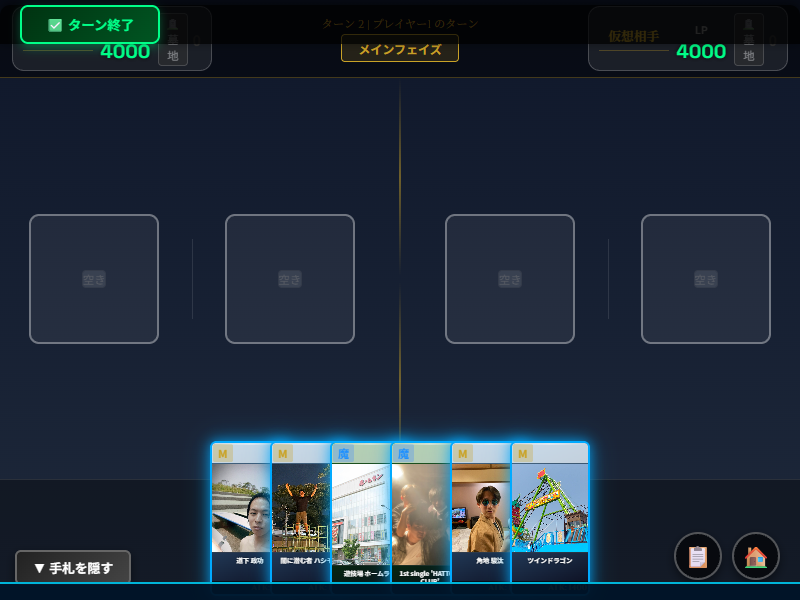
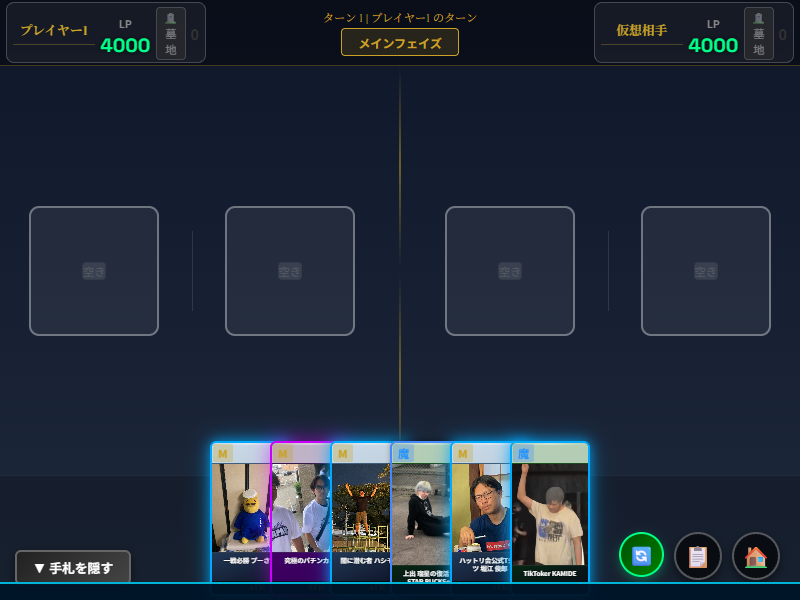
b1

diff --git a/game.js b/game.js
@@ -1043,36 +1043,7 @@ function renderHand(player) {
     toggleBtn.onclick = toggleHand;
     headerEl.appendChild(toggleBtn);
 
-    const endTurnBtn = document.createElement('button');
-    endTurnBtn.className = 'btn-end-turn-header';
-    endTurnBtn.style.padding = '8px 24px';
-    endTurnBtn.style.borderRadius = '8px';
-    endTurnBtn.style.background = 'linear-gradient(135deg, #003311, #005522)';
-    endTurnBtn.style.color = '#00ff88';
-    endTurnBtn.style.border = '2px solid #00ff88';
-    endTurnBtn.style.cursor = 'pointer';
-    endTurnBtn.style.fontWeight = 'bold';
-    endTurnBtn.style.pointerEvents = 'auto';
-    endTurnBtn.style.boxShadow = '0 4px 10px rgba(0,255,136,0.3)';
-    endTurnBtn.textContent = '✅ ターン終了';
-    endTurnBtn.onclick = () => {
-        if (gs && (gs.phase === PHASE.MAIN || gs.phase === PHASE.BATTLE)) {
-            endTurn();
-        }
-    };
-
-    // 自分のターンのメイン/バトルフェイズのみ表示
-    if (gs && gs._isOnlineHost ? (gs.currentPlayer === gs.player1) : true) {
-        if (gs && (gs.phase === PHASE.MAIN || gs.phase === PHASE.BATTLE)) {
-            endTurnBtn.style.display = 'block';
-        } else {
-            endTurnBtn.style.display = 'none';
-        }
-    } else {
-        endTurnBtn.style.display = 'none';
-    }
-
-    headerEl.appendChild(endTurnBtn);
+    // ターン終了ボタンは画面右下のメニューに移管されたため、手札上部での生成・描画は削除しました
 
     // headerElを先に挿入し、その後にcardsElを挿入（flex-direction: columnにより縦に並ぶ）
     el.appendChild(headerEl);

diff --git a/style.css b/style.css
@@ -2361,12 +2361,15 @@ body::before {
   flex-direction: row;
   align-items: center;
   justify-content: space-between;
-  padding: 6px 12px;
-  background: rgba(0, 0, 0, 0.5);
+  padding: 2px 6px;
+  /* 上下左右のパディングを削減して縮小 */
+  background: rgba(0, 0, 0, 0.4);
+  /* 黒幕を少し薄く／小さく */
   border-bottom: 1px solid rgba(201, 162, 39, 0.3);
   flex-shrink: 0;
-  gap: 8px;
-  min-height: 56px;
+  gap: 6px;
+  min-height: 38px;
+  /* 大幅に縮小 */
 }
 
 .g-topbar .player-panel {
@@ -2374,11 +2377,13 @@ body::before {
   display: flex;
   flex-direction: row;
   align-items: center;
-  gap: 8px;
-  background: rgba(255, 255, 255, 0.08);
+  gap: 6px;
+  background: rgba(255, 255, 255, 0.05);
+  /* より薄く */
   border: 1px solid rgba(255, 255, 255, 0.2);
-  border-radius: 12px;
-  padding: 4px 10px;
+  border-radius: 8px;
+  padding: 2px 6px;
+  /* パディング削減 */
   width: auto;
   min-width: 0;
   flex: 1;
@@ -2519,8 +2524,11 @@ body::before {
   display: flex;
   flex-direction: column;
   flex-shrink: 0;
-  background: rgba(0, 0, 0, 0.35);
-  border-top: 1px solid rgba(255, 255, 255, 0.1);
+  background: rgba(0, 0, 0, 0.2);
+  /* 黒幕を薄く、主張を減らす */
+  border-top: 1px solid rgba(255, 255, 255, 0.05);
+  padding: 2px 0;
+  /* 高さを削る */
 }
 
 /* controls-barの固定配置を解除してflowに戻す */

diff --git a/index.html b/index.html
@@ -160,6 +160,8 @@
 
         <!-- 🍔 メニューボタン群 (右下に固定) -->
         <div class="menu-buttons-container" style="display:flex; flex-direction:row; gap:10px;">
+            <button id="end-turn-btn" class="menu-btn" onclick="endTurn()" title="ターン終了"
+                style="background: linear-gradient(135deg, #004d00, #008000); color: #0f8; font-size: 1.2rem; border-radius: 50%; width: 45px; height: 45px; display: flex; align-items: center; justify-content: center; box-shadow: 0 4px 10px rgba(0,255,136,0.3); border: 2px solid #00ff88;">🔄</button>
             <button id="log-btn" class="menu-btn" onclick="toggleLogModal()" title="ゲームログ">📋</button>
             <button id="back-title-btn" class="menu-btn" onclick="goToTitle()" title="タイトルへ戻る">🏠</button>
         </div>
